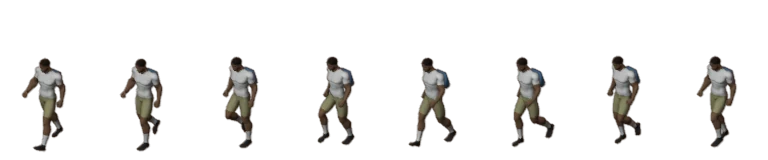
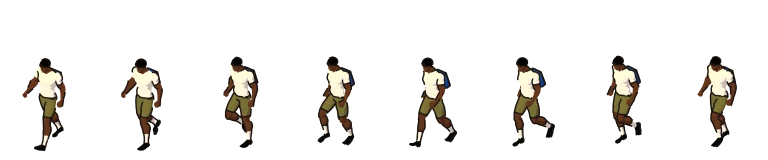
feat(map): toon walk sprites (cel bands, dark outlines) to match the map art

diff --git a/apps/web/scripts/blender/agent/sprites.py b/apps/web/scripts/blender/agent/sprites.py
@@ -302,6 +302,144 @@ def sync_viewport_colors():
                 break
 
 
+# ------------------------------------------------------------------ toon look (LOOK=toon)
+SS = 2                                   # supersample factor (render 2x, box-filter down)
+OUTLINE_SRGB = (0x1b / 255, 0x14 / 255, 0x10 / 255)
+TOON_LIGHT = None                        # set in setup_toon: key light up and to the left of the camera
+
+
+def srgb_to_lin(c):
+    return c / 12.92 if c <= 0.04045 else ((c + 0.055) / 1.055) ** 2.4
+
+
+def toon_palette(rgb, name):
+    """Richer colours: more saturation; greys/whites become warm off-white; eyes/brows dark."""
+    import colorsys
+    n = name.lower()
+    if "eye" in n and "brow" not in n:
+        return (0.02, 0.012, 0.008)
+    if "brow" in n or n.startswith("mi_hair"):
+        return (0.015, 0.01, 0.006)
+    # The outfit colours are treated as display (sRGB) colours, then converted to linear for the emission
+    # shader, so dark skin stays a rich brown instead of washing out to tan.
+    r, g, b = rgb[:3]
+    h, sat, v = colorsys.rgb_to_hsv(r, g, b)
+    if n.startswith("mi_superhero"):     # skin: lift to a readable warm brown (the shadow band darkens it)
+        out = colorsys.hsv_to_rgb(h, min(1.0, sat * 1.05), min(1.0, v * 1.55))
+    elif sat < 0.16 and v > 0.6:         # whites / cream: warm off-white instead of grey
+        out = (0.98 * v / 0.93, 0.94 * v / 0.93, 0.84 * v / 0.93)
+    else:
+        out = colorsys.hsv_to_rgb(h, min(1.0, sat * 1.1), min(1.0, v * 1.04))
+    return tuple(srgb_to_lin(min(1.0, c)) for c in out)
+
+
+def toon_material(src, cache):
+    if src.name in cache:
+        return cache[src.name]
+    base = toon_palette(tuple(src.diffuse_color), src.name)
+    m = bpy.data.materials.new("toon_" + src.name)
+    m.use_nodes = True
+    nt = m.node_tree
+    nt.nodes.clear()
+    out = nt.nodes.new("ShaderNodeOutputMaterial")
+    em = nt.nodes.new("ShaderNodeEmission")
+    geo = nt.nodes.new("ShaderNodeNewGeometry")
+    dot = nt.nodes.new("ShaderNodeVectorMath")
+    dot.operation = "DOT_PRODUCT"
+    dot.inputs[1].default_value = TOON_LIGHT
+    fac = nt.nodes.new("ShaderNodeMath")
+    fac.operation = "MULTIPLY_ADD"
+    fac.inputs[1].default_value, fac.inputs[2].default_value = 0.5, 0.5
+    ramp = nt.nodes.new("ShaderNodeValToRGB")
+    cr = ramp.color_ramp
+    cr.interpolation = "CONSTANT"
+    shadow = (base[0] * 0.58, base[1] * 0.52, base[2] * 0.64)          # cool, darker shadow band
+    lit = (min(1, base[0] * 1.18), min(1, base[1] * 1.1), min(1, base[2] * 0.98))  # warm highlight band
+    cr.elements[0].position, cr.elements[0].color = 0.0, (*shadow, 1)
+    cr.elements[1].position, cr.elements[1].color = 0.44, (*base, 1)
+    e = cr.elements.new(0.8)
+    e.color = (*lit, 1)
+    nt.links.new(geo.outputs["Normal"], dot.inputs[0])
+    nt.links.new(dot.outputs["Value"], fac.inputs[0])
+    nt.links.new(fac.outputs[0], ramp.inputs["Fac"])
+    nt.links.new(ramp.outputs["Color"], em.inputs["Color"])
+    em.inputs["Strength"].default_value = 1.0
+    nt.links.new(em.outputs[0], out.inputs["Surface"])
+    cache[src.name] = m
+    return m
+
+
+def setup_toon(scene):
+    global TOON_LIGHT
+    to_cam, right, up = cam_axes()
+    TOON_LIGHT = tuple((-right * 0.55 + Vector((0, 0, 1)) * 0.75 + to_cam * 0.35).normalized())
+    cache = {}
+    for o in bpy.data.objects:
+        if o.type == "MESH":
+            for slot in o.material_slots:
+                if slot.material:
+                    slot.material = toon_material(slot.material, cache)
+    print("TOON materials", sorted(cache))
+    scene.render.engine = "CYCLES"
+    scene.cycles.device = "CPU"
+    scene.cycles.samples = 16
+    scene.cycles.use_denoising = False
+    scene.cycles.use_adaptive_sampling = False
+    scene.cycles.max_bounces = 0
+    scene.cycles.filter_width = 1.0
+    scene.render.film_transparent = True
+    scene.view_settings.view_transform = "Standard"
+    scene.view_settings.look = "None"
+    scene.render.resolution_x, scene.render.resolution_y = FW * SS, FH * SS
+    scene.render.resolution_percentage = 100
+    scene.render.image_settings.file_format = "PNG"
+    scene.render.image_settings.color_mode = "RGBA"
+    if scene.world is None:
+        scene.world = bpy.data.worlds.new("w")
+    scene.world.use_nodes = True
+    bg = scene.world.node_tree.nodes.get("Background")
+    if bg:
+        bg.inputs["Strength"].default_value = 0.0
+    # Freestyle outlines: silhouette, open borders (hems, sleeve ends), material boundaries, contours
+    scene.render.use_freestyle = True
+    scene.render.line_thickness_mode = "ABSOLUTE"
+    scene.render.line_thickness = 1.0
+    vl = bpy.context.view_layer
+    vl.use_freestyle = True
+    fs = vl.freestyle_settings
+    fs.mode = "EDITOR"
+    ls = fs.linesets[0] if len(fs.linesets) else fs.linesets.new("outline")
+    ls.select_by_visibility = True
+    ls.visibility = "VISIBLE"
+    ls.select_by_edge_types = True
+    ls.select_silhouette = True
+    ls.select_border = True
+    ls.select_material_boundary = True
+    ls.select_external_contour = True
+    ls.select_contour = True
+    ls.select_crease = False
+    st = ls.linestyle or bpy.data.linestyles.new("ink")
+    ls.linestyle = st
+    st.color = tuple(srgb_to_lin(c) for c in OUTLINE_SRGB)
+    st.thickness = float(os.environ.get("TOON_LINE", "4.0"))   # at 2x: ~2 px after downscale
+    st.thickness_position = "CENTER"
+    st.alpha = 1.0
+    st.use_length_min = True             # drop short muscle/fold squiggles
+    st.length_min = 7.0 * SS
+
+
+def downsample(a):
+    if SS == 1:
+        return a
+    h, w = a.shape[0] // SS, a.shape[1] // SS
+    pm = a.copy()
+    pm[..., :3] *= pm[..., 3:4]
+    pm = pm.reshape(h, SS, w, SS, 4).mean(axis=(1, 3))
+    al = pm[..., 3:4]
+    pm[..., :3] = np.where(al > 1e-4, pm[..., :3] / np.maximum(al, 1e-4), 0)
+    return pm
+
+
 def render_variant(name, sex, fn, tmp):
     arm, body, others = load_body(os.path.join(HUSTLE, f"body-{sex}.glb"))
     skin = body.material_slots[0].material
@@ -323,6 +461,11 @@ def render_variant(name, sex, fn, tmp):
         sh.show_cavity = False
     scene.display.render_aa = "8"
     setup_camera(scene)
+    if look == "toon":
+        setup_toon(scene)
+        if arm.scale[0] < 0.9:  # children: thinner ink so their slim legs don't turn into solid lines
+            for ls in bpy.context.view_layer.freestyle_settings.linesets:
+                ls.linestyle.thickness = float(os.environ.get("TOON_LINE", "4.0")) * 0.75
     act = bpy.data.actions["Walk_Loop"]
     f0, f1 = 1.0, 33.0  # one full cycle (frame 33 == frame 1)
     frames0 = {}
@@ -335,6 +478,8 @@ def render_variant(name, sex, fn, tmp):
             scene.render.filepath = p
             bpy.ops.render.render(write_still=True)
             a = read_png(p)
+            if look == "toon":
+                a = downsample(a)
             sheet[:, i * FW:(i + 1) * FW] = a
             if i == 0:
                 frames0[d] = a
